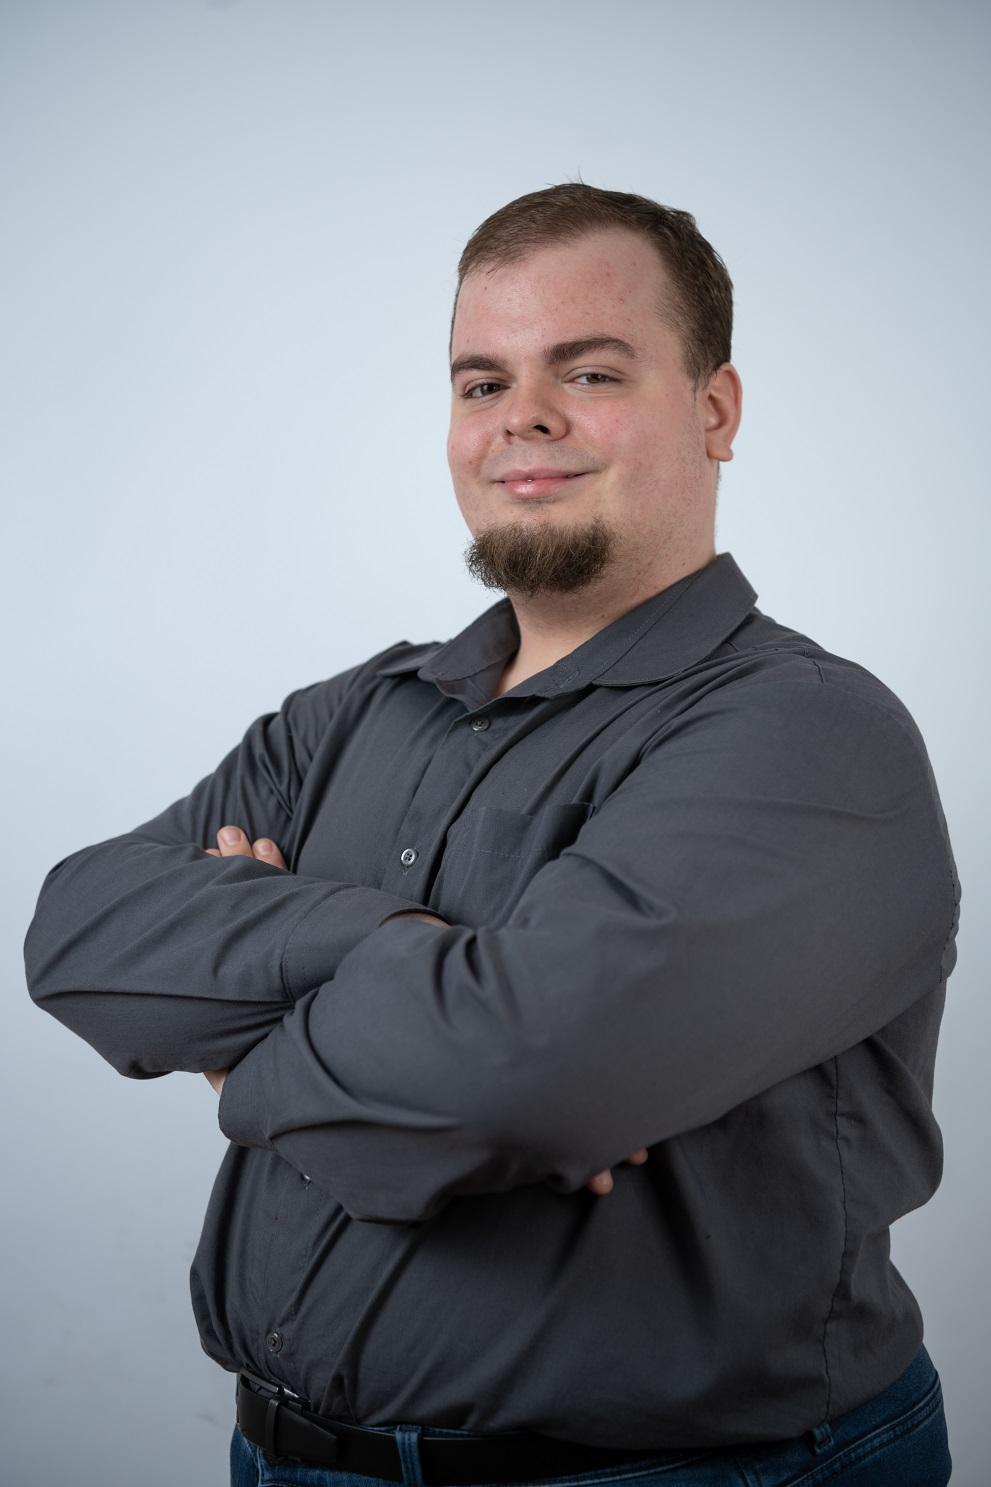
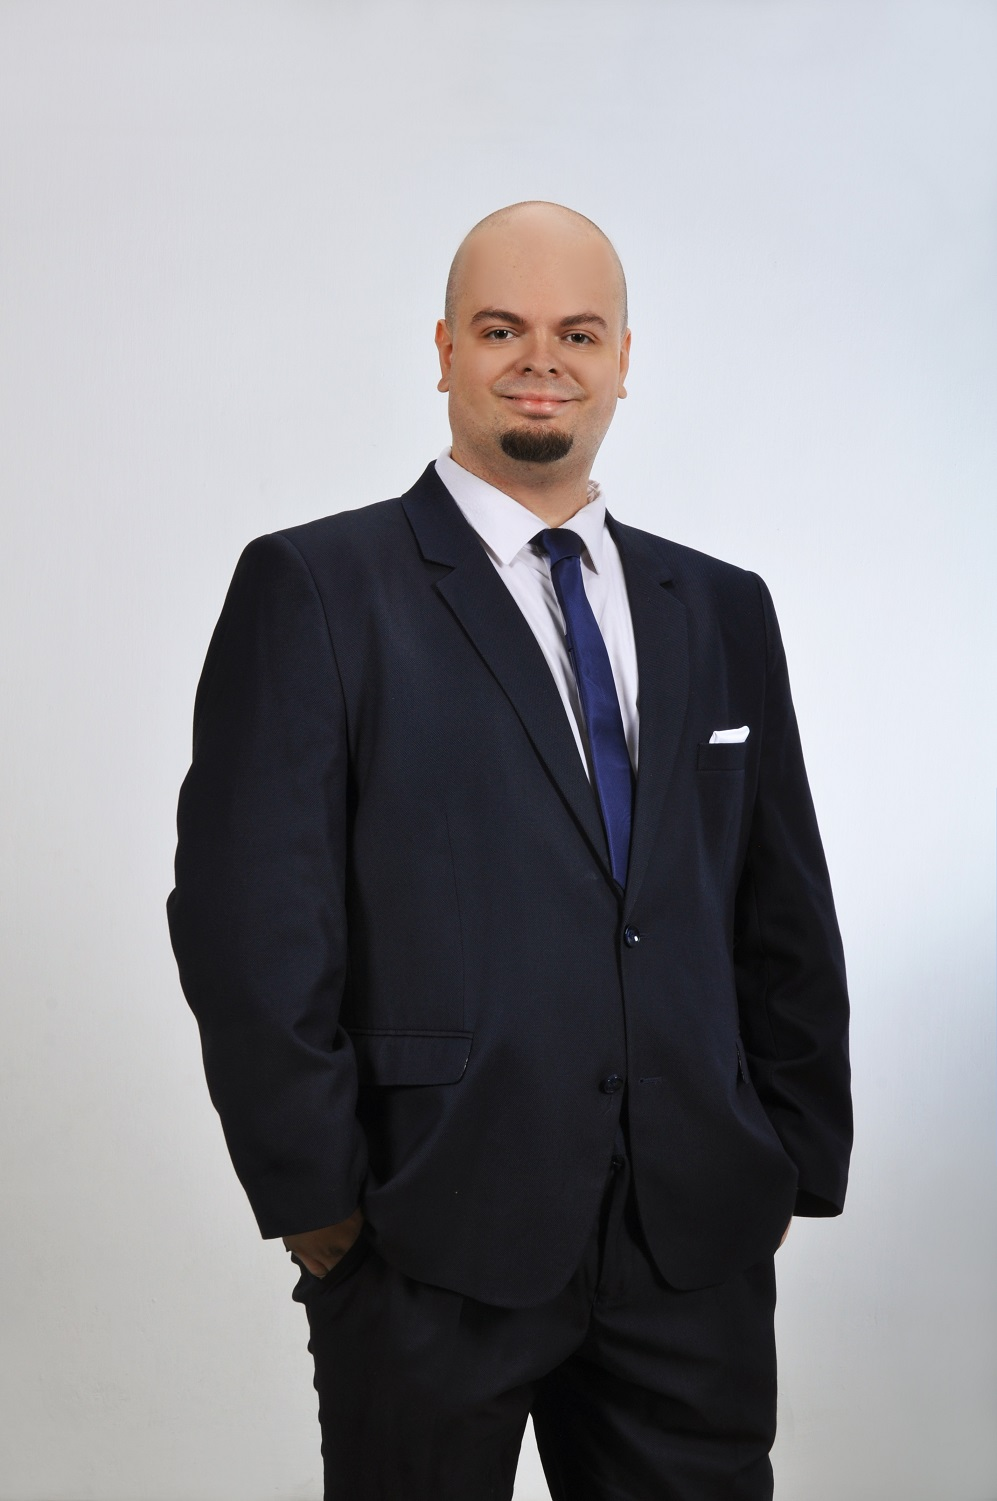
Photo changes

diff --git a/content.js b/content.js
@@ -90,9 +90,9 @@ window.CONTENT = {
         pl: "Przez cały okres studiów uczyłem się na kierunku informatyka stosowana na Politechnice Łódzkiej."
       },
       image: {
-        src: "assets/lodex.jpg",
+        src: "assets/education.jpeg",
         alt:     { en: "TUL Campus", pl: "Kampus PŁ" },
-        caption: { en: "Lodz University of Technology", pl: "Politechnika Łódzka" }
+        caption: { en: "Obrona pracy magisterskiej", pl: "Master thesis defence" }
       },
       blocks: [
         {
@@ -194,10 +194,9 @@ window.CONTENT = {
         pl: "Już w połowie studiów inżynierskich zacząłem zdobywać doświadczenie zawodowe."
       },
       image: {
-        src: "assets/toya.jpg",
-        focus: "right",
+        src: "assets/toya2.jpg",
         alt:     { en: "Workplace", pl: "Miejsce pracy" },
-        caption: { en: "TOYA", pl: "TOYA" }
+        caption: { en: "TOYA light installation at Light Move Festival 2026, representing the RND Team, where I work", pl: "Instalacja świetlna TOYA na Light Move Festival 2026, reprezentująca Dział Rozwoju, w którym pracuję" }
       },
       blocks: [
         {
@@ -510,6 +509,7 @@ window.CONTENT = {
       kicker: { en: "The parts that do not fit on a CV", pl: "To, co nie mieści się w CV" },
       lede:   { en: "After leaving the office.", pl: "Co po wyjściu z biura." },
       image: {
+        focus: "25% 30%",
         src: "assets/personal.jpg",
         alt:     { en: "Holidays 2025", pl: "Wakacje 2025" },
         caption: { en: "Holidays 2025", pl: "Wakacje 2025" }
